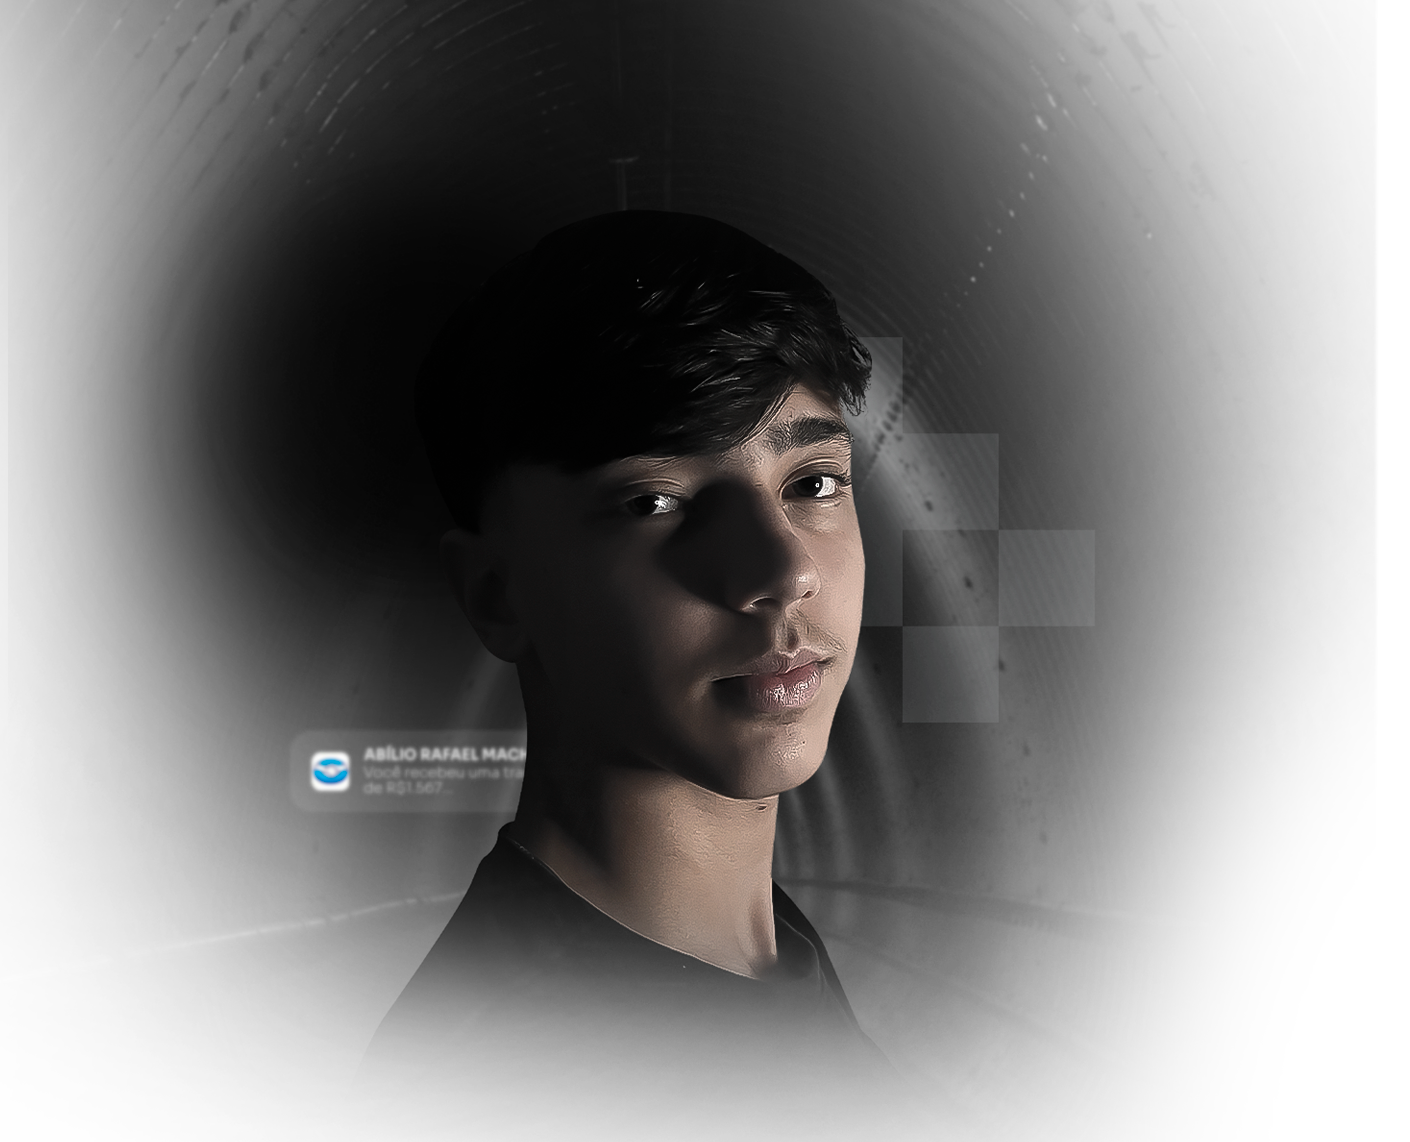
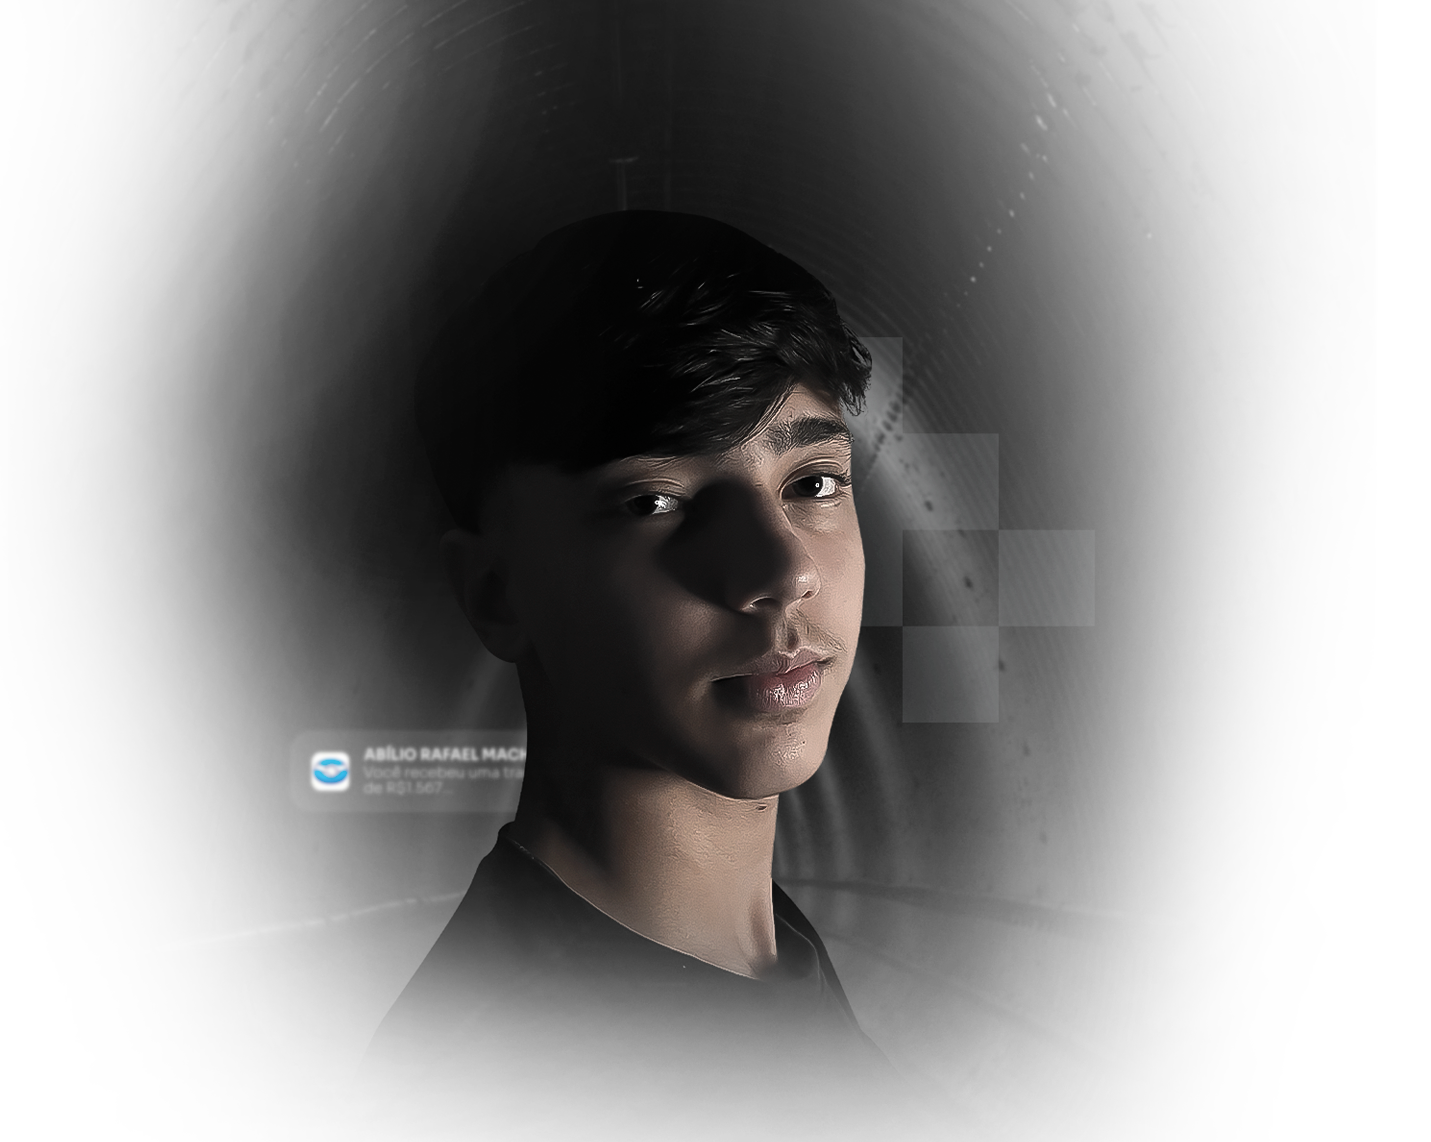
changed hero img

diff --git a/public/style.css b/public/style.css
@@ -847,10 +847,59 @@ video {
   opacity: 0.33;
 }
 
+.bg-blend-multiply {
+  background-blend-mode: multiply;
+}
+
+.bg-blend-overlay {
+  background-blend-mode: overlay;
+}
+
+.mix-blend-multiply {
+  mix-blend-mode: multiply;
+}
+
+.mix-blend-screen {
+  mix-blend-mode: screen;
+}
+
+.mix-blend-overlay {
+  mix-blend-mode: overlay;
+}
+
+.mix-blend-lighten {
+  mix-blend-mode: lighten;
+}
+
+.mix-blend-color-dodge {
+  mix-blend-mode: color-dodge;
+}
+
+.mix-blend-color-burn {
+  mix-blend-mode: color-burn;
+}
+
+.mix-blend-hard-light {
+  mix-blend-mode: hard-light;
+}
+
+.mix-blend-exclusion {
+  mix-blend-mode: exclusion;
+}
+
+.mix-blend-hue {
+  mix-blend-mode: hue;
+}
+
 .shadow-md {
   --tw-shadow: 0 4px 6px -1px rgb(0 0 0 / 0.1), 0 2px 4px -2px rgb(0 0 0 / 0.1);
   --tw-shadow-colored: 0 4px 6px -1px var(--tw-shadow-color), 0 2px 4px -2px var(--tw-shadow-color);
   box-shadow: var(--tw-ring-offset-shadow, 0 0 #0000), var(--tw-ring-shadow, 0 0 #0000), var(--tw-shadow);
+}
+
+.brightness-200 {
+  --tw-brightness: brightness(2);
+  filter: var(--tw-blur) var(--tw-brightness) var(--tw-contrast) var(--tw-grayscale) var(--tw-hue-rotate) var(--tw-invert) var(--tw-saturate) var(--tw-sepia) var(--tw-drop-shadow);
 }
 
 .transition-all {

diff --git a/index.html b/index.html
@@ -28,7 +28,7 @@
                     <img class="absolute w-[31%] top-[28%] left-[14%] md:top-1/4 md:left-[18%] select-none pointer-events-none" data-aos="slide-down" data-aos-duration="1750" data-aos-delay="0" src="assets/images/PIX ESQUERDO.png" alt="">
                     <img class="absolute w-[31%] bottom-[30%] md:bottom-[23%] right-[18%] select-none pointer-events-none" data-aos="slide-down" data-aos-duration="2250" data-aos-delay="0" src="assets/images/PIX-ABAIXO-DO-QUEIXO-DIREITA.png" alt="">
                     <img class=" md:hidden select-none pointer-events-none" src="assets/images/EU.png">
-                    <img class="hidden md:block max-h-[600px] mx-0 select-none pointer-events-none" src="assets/images/EU-DESKTOP-2.png" alt="">
+                    <img class="hidden md:block max-h-[600px] mx-0 select-none pointer-events-none" src="assets/images/EU-DESKTOP.png" alt="">
                 </div>
                 <div
                     class="absolute md:relative max-md:-bottom-8 max-md:left-2/4 -translate-x-1/2 md:-translate-x-12 lg:-translate-x-1/4 w-full md:w-5/12 lg:w-4/12">
